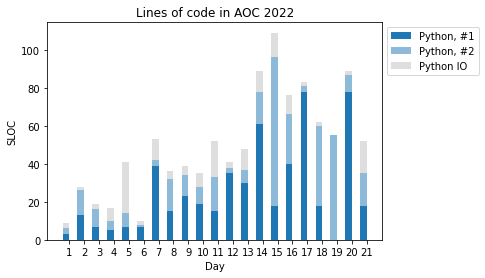
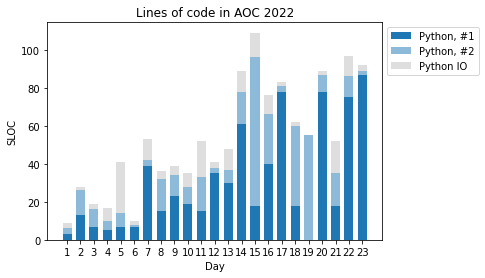
Day 23

Changed region(s): [[0.1237, 0.1151, 0.7732, 0.8633], [0.1237, 0.8921, 0.7732, 0.9209]]

diff --git a/23/day23.py b/23/day23.py
@@ -1,0 +1,128 @@
+#!/usr/bin/env python3
+# -*- coding: utf-8 -*-
+"""
+Created on Thu Dec 29 15:30:10 2022
+
+@author: podolnik
+"""
+
+import copy
+
+with open('input.txt', 'r') as f:
+    field = [list(l.strip()) for l in f.readlines()]
+
+# part 1
+ 
+elves = set()
+
+for r in range(len(field)):
+    for c in range(len(field[r])):
+        if field[r][c] == '#':
+            elves.add((r, c))
+
+dir_8 = [(ns, ew) for ns in (-1, 0, 1) for ew in (-1, 0, 1)  if (ns, ew) != (0, 0) ]
+name_8 = [ns + ew for ns in ('N', '', 'S') for ew in ('W', '', 'E')  if len(ns + ew) > 0]
+directions = dict(zip(name_8, dir_8))
+
+init_conditions = [
+    (('N', 'NE', 'NW'), 'N'),
+    (('S', 'SE', 'SW'), 'S'),
+    (('W', 'NW', 'SW'), 'W'),
+    (('E', 'NE', 'SE'), 'E'),
+    ]
+
+def get_bounds(elves):
+    r = [e[0] for e in elves]
+    c = [e[1] for e in elves]
+    return min(r), max(r), min(c), max(c)
+
+def print_elves(elves):
+    r_min, r_max, c_min, c_max = get_bounds(elves)
+    
+    for r in range(r_min - 1, r_max + 2):
+        row = ''
+        for c in range(c_min - 1, c_max + 2):
+            if (r, c) in elves:
+                row += '#'
+            else:
+                row += '.'
+        print(row)
+    print()
+
+def add(pos, d):
+    return (pos[0] + d[0], pos[1] + d[1])
+
+def count_neighbors(elf, dir_names, elves):
+    n_nbs = 0
+    for dn in dir_names:
+        d = directions[dn]
+        pos = add(elf, d)
+        if pos in elves:
+            n_nbs += 1
+    return n_nbs
+
+def add_or_append(dictionary, key, value):
+    if key in dictionary:
+        dictionary[key].append(value)
+    else:
+        dictionary[key] = [value]
+    
+def move(elves, init_conditions, n_rounds = None):        
+    condition_def = init_conditions
+    r = 0
+    while True:
+        candidates = {}
+        for elf in elves:        
+            total_nbs = count_neighbors(elf, name_8, elves)
+            if total_nbs > 0:
+                dir_found = False
+                for condition, result in condition_def:
+                    n_nbs = count_neighbors(elf, condition, elves)
+                                            
+                    if n_nbs == 0:
+                        dir_found = True
+                        d = directions[result]
+                        pos = add(elf, d)
+                        add_or_append(candidates, pos, elf)
+                        break
+                if not dir_found:
+                    add_or_append(candidates, elf, elf)
+            else:
+                add_or_append(candidates, elf, elf)
+                
+        new_elves = set()
+        for pos in candidates:
+            moved = set()
+            if len(candidates[pos]) == 1:
+                moved.add(pos)
+            else:
+                moved = moved.union(candidates[pos])
+                
+            for e in moved:
+                new_elves.add(e)
+    
+                
+        r += 1
+        if elves == new_elves:
+            break
+        else:
+            elves = new_elves
+        
+        condition_def = [*condition_def[1:], condition_def[0]]
+        
+        if n_rounds is not None and r == n_rounds:
+            break
+            
+    r_min, r_max, c_min, c_max = get_bounds(elves)
+    n_empty = (r_max - r_min + 1) * (c_max - c_min + 1) - len(elves)
+    return n_empty, r
+
+n_empty, n_rounds = move(copy.deepcopy(elves), init_conditions, n_rounds = 10)
+
+print(n_empty)
+
+# part 2
+
+n_empty, n_rounds = move(copy.deepcopy(elves), init_conditions)
+
+print(n_rounds)
